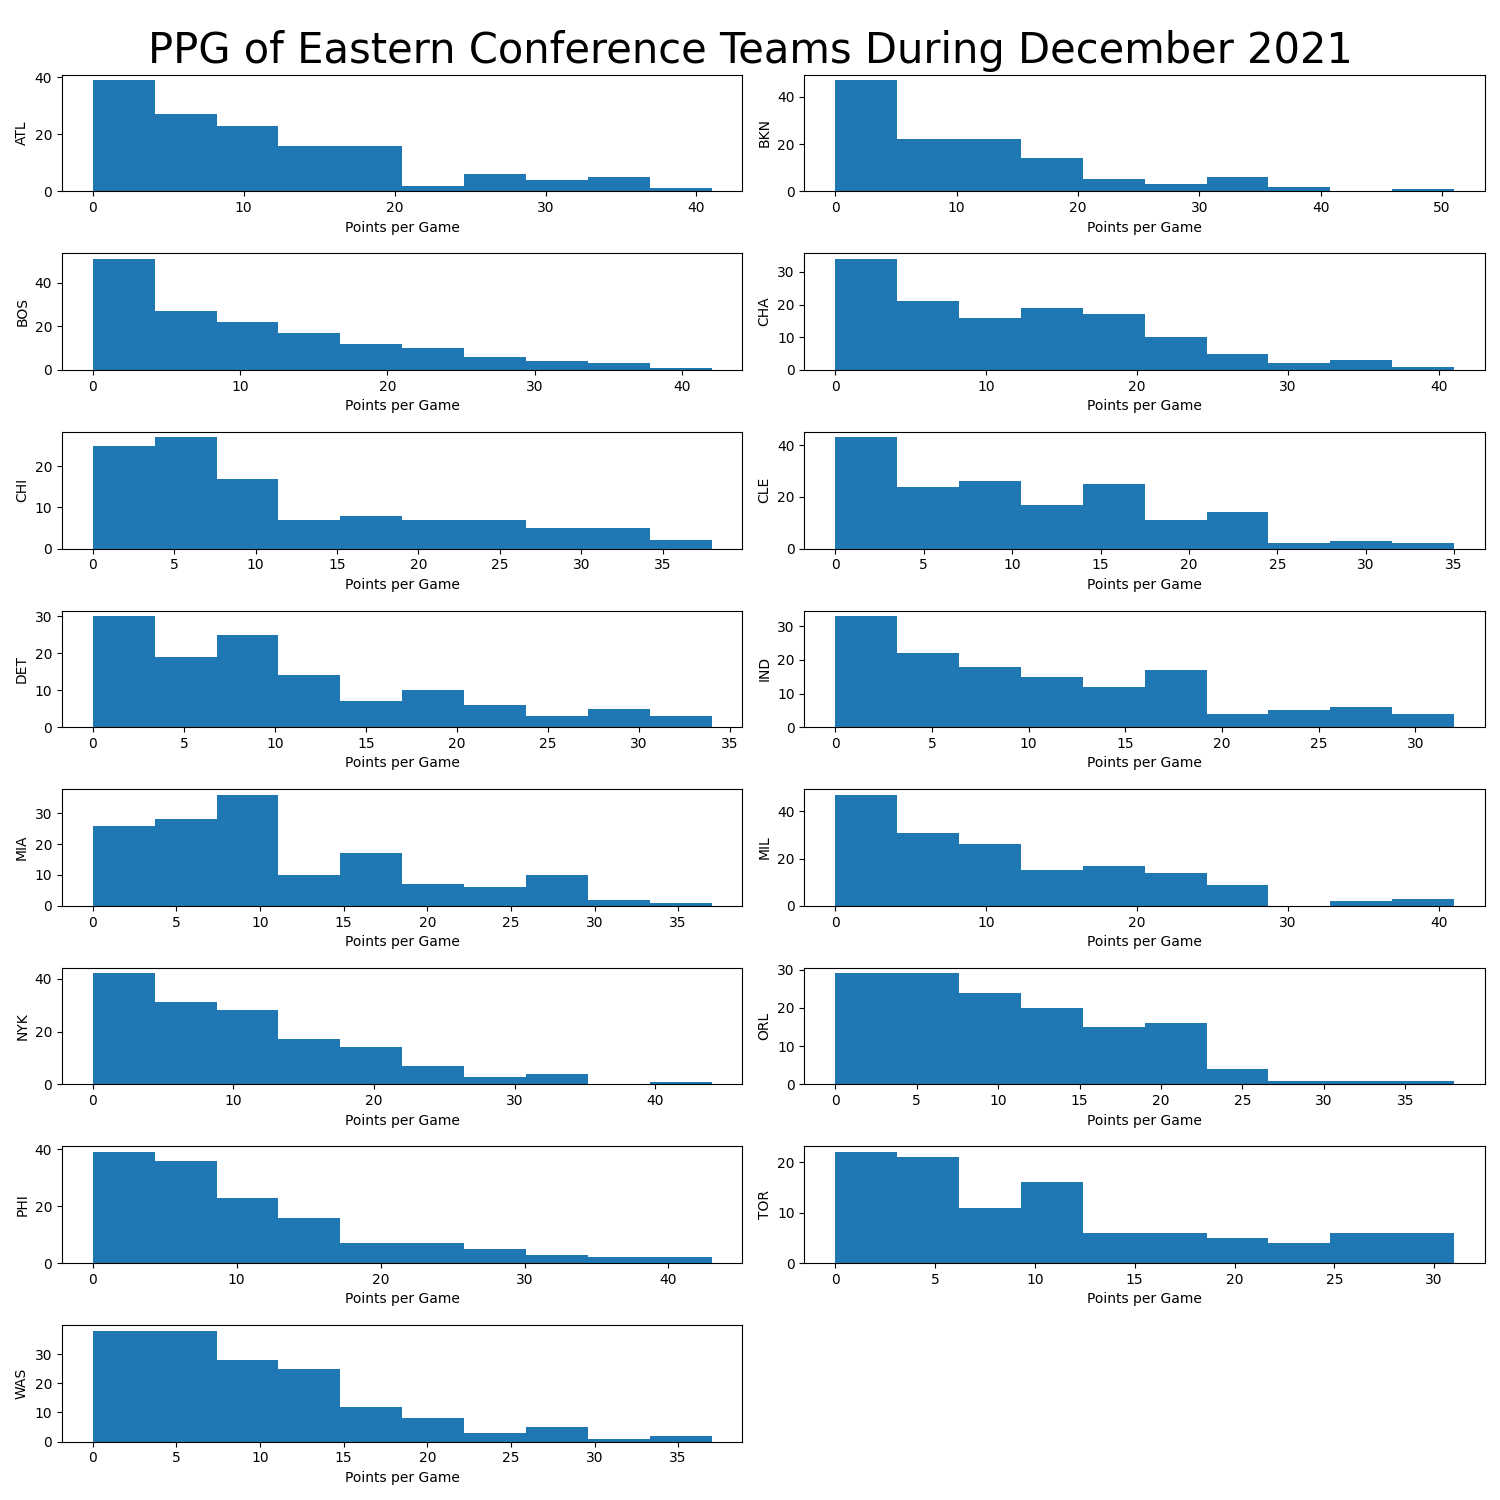
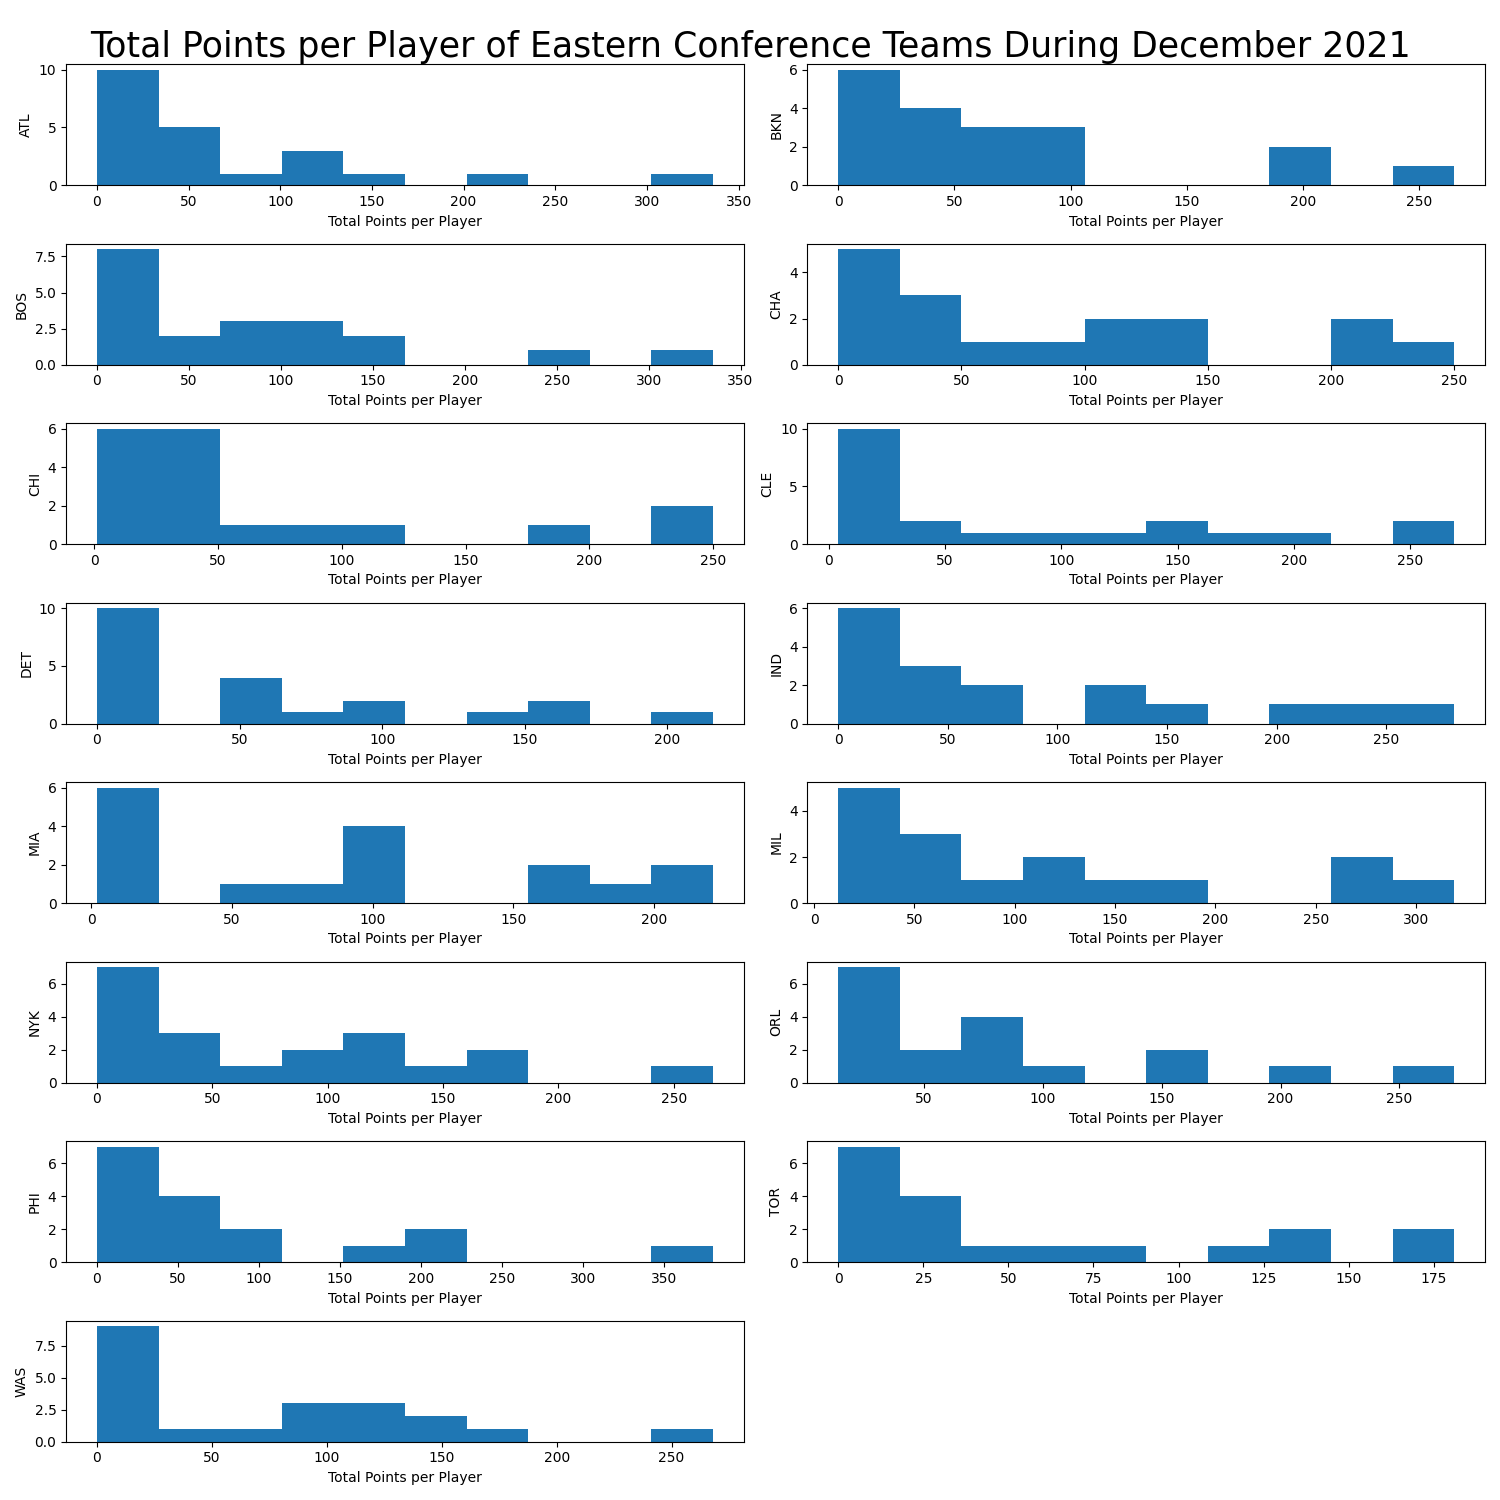
Corrected histogram.

diff --git a/main.py b/main.py
@@ -157,7 +157,11 @@ def all_star(data: List[List]):
 def hist_plots(data: List[List]):
     east_conf = ['ATL', 'BKN', 'BOS', 'CHA', 'CHI', 'CLE', 'DET', 'IND', 'MIA', 'MIL', 'NYK', 'ORL', 'PHI', 'TOR', 'WAS']
     df = data.query('TEAM == @east_conf')
+    # players = df['PLAYER_NAME'].unique().tolist()
+    # teams = df.query('PLAYER_NAME == @players')['TEAM']
     df = df[(df['game_date'] >= '2021-12-01') & (df['game_date'] <= '2021-12-31')]
+    df = df[['PTS', 'PLAYER_NAME', 'TEAM']]
+    df = df.groupby(['TEAM', 'PLAYER_NAME'], as_index=False).sum()
     count = 0
     fig, axes = plt.subplots(nrows=8, ncols=2, figsize=(15, 15))
     for row in axes:
@@ -168,10 +172,10 @@ def hist_plots(data: List[List]):
             team = east_conf[count]
             points_df = df.query('TEAM == @team')
             col.hist(points_df['PTS'], bins=10)
-            col.set_xlabel('Points per Game')
+            col.set_xlabel('Total Points per Player')
             col.set_ylabel(east_conf[count])
             count += 1
-    fig.suptitle('PPG of Eastern Conference Teams During December 2021', fontsize=30)
+    fig.suptitle('Total Points per Player of Eastern Conference Teams During December 2021', fontsize=25)
     fig.tight_layout()
     plt.savefig('team_points_dist.png')
 
